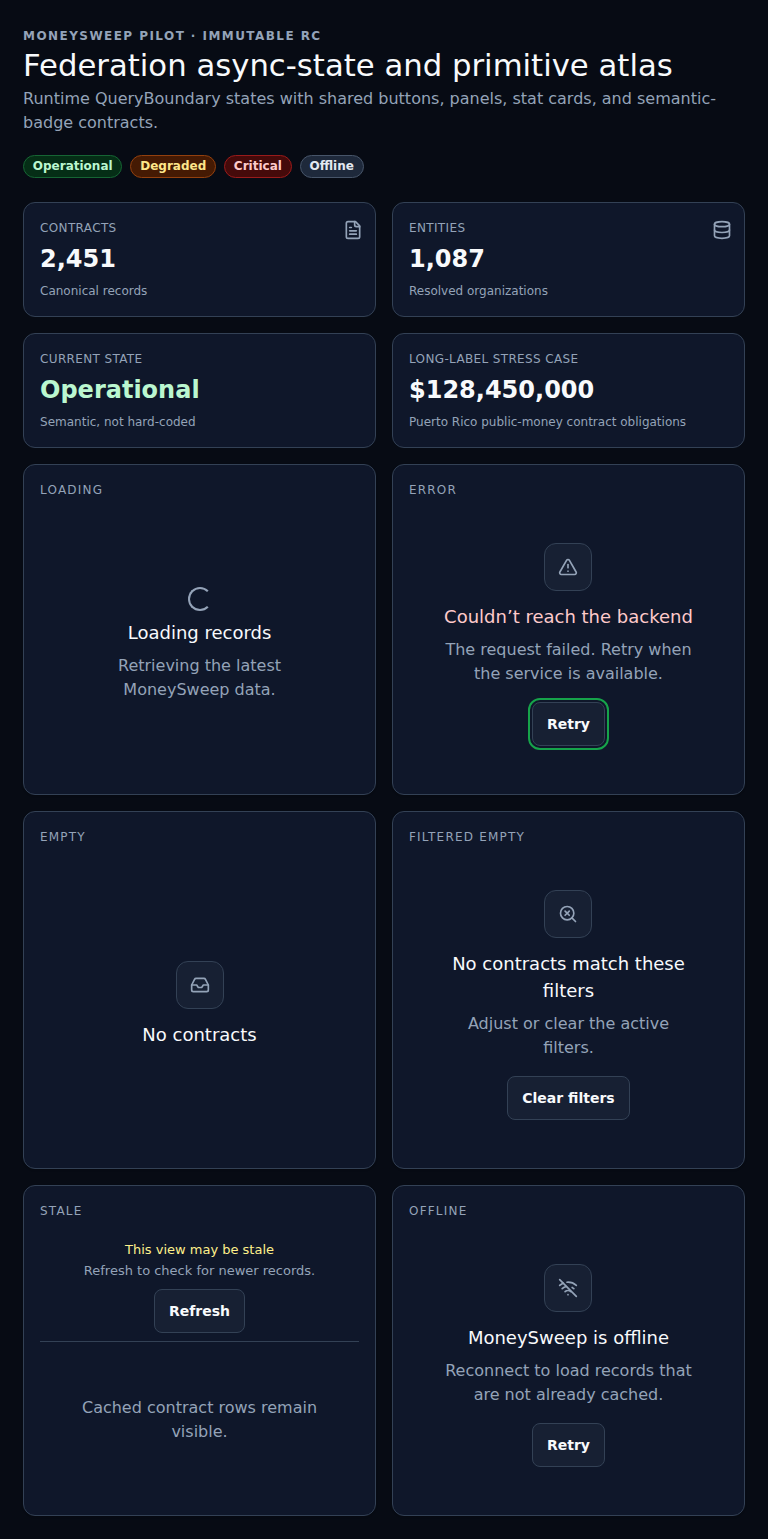
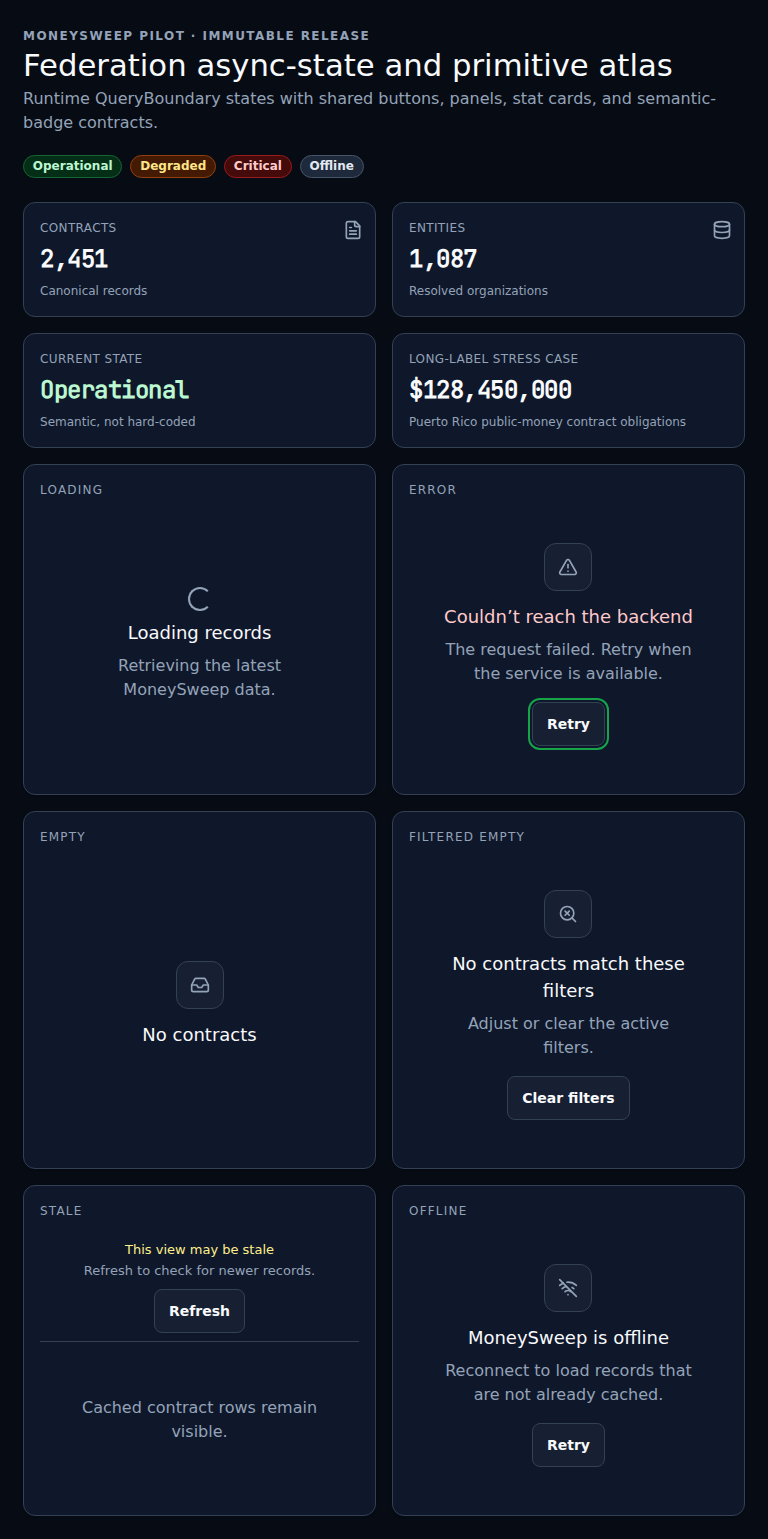
Move federation design pin from v0.4.0-rc.1 prerelease to v0.4.1 (#445)
* chore(design): move pilot pin from v0.4.0-rc.1 prerelease to v0.4.1

MoneySweep was the last consumer pinned to a prerelease. The pin was cut
before the design-system lines converged, and the pilot plan calls for
pinning the immutable v0.4 release once release authorization exists. It
now does, so this goes straight to v0.4.1 rather than stepping through
v0.4.0.

Five constants move in verify-federation-design-package.mjs (URL, tarball
SHA-256, installed version, manifest version, expected tag). The rest are
deliberately untouched and still assert: 11/11 source hashes, 35 exports,
zero removals, token version 2.0.0, 6 harness viewports. The v0.4.1
`loading` and `accent` additions are props, not exports, so the API
surface does not move.

rc.1 predates the convergence commit, so two rendering changes land here
for the first time: monospace stat values, and overflow:hidden on the
card. Wider digits put the horizontal-overflow requirement at risk, so it
was measured rather than assumed. Worst case is the atlas stress value
$128,450,000 at mobile-compact, where the grid is single-column: the
value measures 324px inside a 356px card, fitting without relying on the
clip. StatsBar is unaffected either way, since it scrolls inside
overflow-x-auto with shrink-0 children and never propagates scrollWidth
to the document.

Confirmed the change actually took effect rather than only passing: the
atlas computes "JetBrains Mono" at -0.48px tracking, where rc.1 shipped
[…]

diff --git a/dashboard/src/visual-tests/FederationPilotAtlas.jsx b/dashboard/src/visual-tests/FederationPilotAtlas.jsx
@@ -52,7 +52,7 @@ function Atlas() {
     <main className="atlas-shell">
       <header className="atlas-header">
         <div>
-          <p className="atlas-kicker">MoneySweep pilot · immutable RC</p>
+          <p className="atlas-kicker">MoneySweep pilot · immutable release</p>
           <h1>Federation async-state and primitive atlas</h1>
           <p>Runtime QueryBoundary states with shared buttons, panels, stat cards, and semantic-badge contracts.</p>
         </div>

diff --git a/docs/MONEYSWEEP_FEDERATION_DESIGN_PILOT_VISUAL_STATE_ATLAS_v0_1.md b/docs/MONEYSWEEP_FEDERATION_DESIGN_PILOT_VISUAL_STATE_ATLAS_v0_1.md
@@ -6,12 +6,17 @@ Each screenshot is produced by the real MoneySweep `QueryBoundary`. The matrix e
 
 | Viewport | Size | Screenshot | SHA-256 |
 |---|---:|---|---|
[6 lines of base64/hex data omitted]
+Captured against `federation-design-v0.4.1`. The v0.4.0-rc.1 capture this atlas originally
+certified is superseded — see "Supersedes" below for why every hash moved.
+
+| Viewport | Size | Screenshot | SHA-256 |
+|---|---:|---|---|
[6 lines of base64/hex data omitted]
 
 ## Automated checks
 
@@ -25,13 +30,37 @@ Each screenshot is produced by the real MoneySweep `QueryBoundary`. The matrix e
 - Deterministic capture: reduced motion, animations disabled, caret hidden
 - Manual visual review: **passed all six screenshots**
 
+## Supersedes — why every hash moved
+
+The pin moved from the `federation-design-v0.4.0-rc.1` prerelease to `federation-design-v0.4.1`.
+rc.1 was cut before the design-system lines converged, so two rendering changes reached this
+repo for the first time and changed every capture:
+
+1. **Monospace stat values** — `font-family: var(--fd-font-mono)` with `letter-spacing:-.02em`.
+   Verified as *computed*, not merely present in the stylesheet: the atlas resolves
+   `"JetBrains Mono", ui-monospace, …` at `-0.48px`. rc.1 shipped no `font-family` on the
+   value at all.
+2. **`.fd-stat-card { position: relative; overflow: hidden }`** — added for the v0.4.1 accent bar.
+
+The atlas kicker also changed from `immutable RC` to `immutable release`, which the pin move
+falsified.
+
+Wider digits put the horizontal-overflow requirement at risk, so it was measured rather than
+assumed. Worst case is the stress value `$128,450,000` at `mobile-compact`, where the grid is
+single-column: the value measures **324 px** inside a **356 px** card — 32 px of headroom,
+fitting without relying on the clip.
+
 ## Two-run reproducibility certificate
 
-- Exact code head: `62758c3beb8db55bb9c7f52cb034d4952bfd59cb`
-- Workflow run: `30377448213`
[2 lines of base64/hex data omitted]
-- ZIP containers differ only in archive metadata; **all six PNGs and the JSON report are byte-identical**
[1 lines of base64/hex data omitted]
+- Source tree: the capture in `1cc25ec` (only this documentation changed afterward, which does
+  not affect rendering)
+- Two independent consecutive captures of that tree produced **all six PNGs and the JSON report
+  byte-identical**
[1 lines of base64/hex data omitted]
+
+This certificate is a **local** double-run, unlike the one it replaces, which was a CI
+double-run (workflow `30377448213`, artifacts `8695575081` / `8695693133`) against the rc.1
+capture. Those artifact identifiers belong to superseded evidence and are recorded here only
+so the earlier certificate remains traceable — they do not authenticate the files above.
 
 Evidence directory: `docs/evidence/moneysweep-federation-design-pilot-v0-1/`.

diff --git a/docs/MONEYSWEEP_FEDERATION_DESIGN_PILOT_IMPLEMENTATION_LEDGER_v0_1.md b/docs/MONEYSWEEP_FEDERATION_DESIGN_PILOT_IMPLEMENTATION_LEDGER_v0_1.md
@@ -5,8 +5,13 @@
 - Repository: `jotaele44/moneysweep-pr`
 - Audit baseline: `main@9cbf0bffa89424bca0f261ff45cf06df6e5c1401`
 - PR base: `main@7c8267cb9ee2af2382aec940edcc7b0becab4bd4`
-- Immutable release: `federation-design-v0.4.0-rc.1`
[1 lines of base64/hex data omitted]
+- Immutable release *as originally reviewed*: `federation-design-v0.4.0-rc.1`
[1 lines of base64/hex data omitted]
+- **Current pin: `federation-design-v0.4.1`** — see the amendment at the end of this ledger.
+
+This block records the baseline the pilot was *reviewed against* and is deliberately not
+rewritten when the pin moves; the evidence below (run IDs, capture hashes) was produced
+against it.
 
 ## Implemented and reviewed scope
 
@@ -39,3 +44,42 @@
 ## Preservation
 
 No route, backend, API, schema, data contract, source dataset, generated export, or offline-export semantic change. No other Federation consumer is bumped.
+
+## Amendment — pin moved to `federation-design-v0.4.1`
+
+The pilot was pinned to `federation-design-v0.4.0-rc.1`, a **prerelease** cut before the
+design-system lines converged. The first scope line of the consumer pilot plan calls for
+pinning the immutable v0.4 release once release authorization exists; it now does, so this
+repo moves straight to `v0.4.1` rather than stepping through `v0.4.0`.
+
+- Release: `federation-design-v0.4.1`
[1 lines of base64/hex data omitted]
+- Unchanged across the bump: release-manifest source hashes **11/11**, API snapshot **35
+  exports / zero removals**, token version **2.0.0**, mutable references **false**, harness
+  viewports **6**. `loading` and `accent` are new *props*, not new exports, so the API
+  surface genuinely does not move.
+
+### Rendering change this bump introduces
+
+`rc.1` predates the convergence commit, so two changes land here for the first time:
+
+1. **Monospace stat values** — `font-family: var(--fd-font-mono)` with
+   `letter-spacing: -.02em`. Verified as *computed*, not merely present in the stylesheet:
+   the atlas resolves `"JetBrains Mono", ui-monospace, …` at `-0.48px` tracking.
+2. **`.fd-stat-card { position: relative; overflow: hidden }`** — added for the v0.4.1 accent
+   bar, and incidentally a clip for over-long values.
+
+Wider digits put the horizontal-overflow requirement at risk, so it was measured rather than
+assumed. Worst case is the atlas stress value `$128,450,000` at `mobile-compact` (390 px),
+where the grid is single-column: value `scrollWidth` **324 px** inside a **356 px** card —
+32 px of headroom, fitting without relying on the clip. `StatsBar` is unaffected regardless,
+since it scrolls inside `overflow-x-auto` with `shrink-0` children and so never propagates
+`scrollWidth` to the document.
+
+### Re-verification evidence
+
+- `verify:federation-design` — re-downloads the tarball and recomputes the SHA-256: match.
+- `verify:pilot` — package verify, 8/8 runtime contracts, ESLint, production build: passed.
+- `test:visual` — run separately from `verify:pilot`, because the CI job of the same name
+  covers both: **12/12** viewport×theme combinations with `horizontalOverflow: false` and
+  `axeCriticalSerious: 0` across all six viewports in dark and light.
